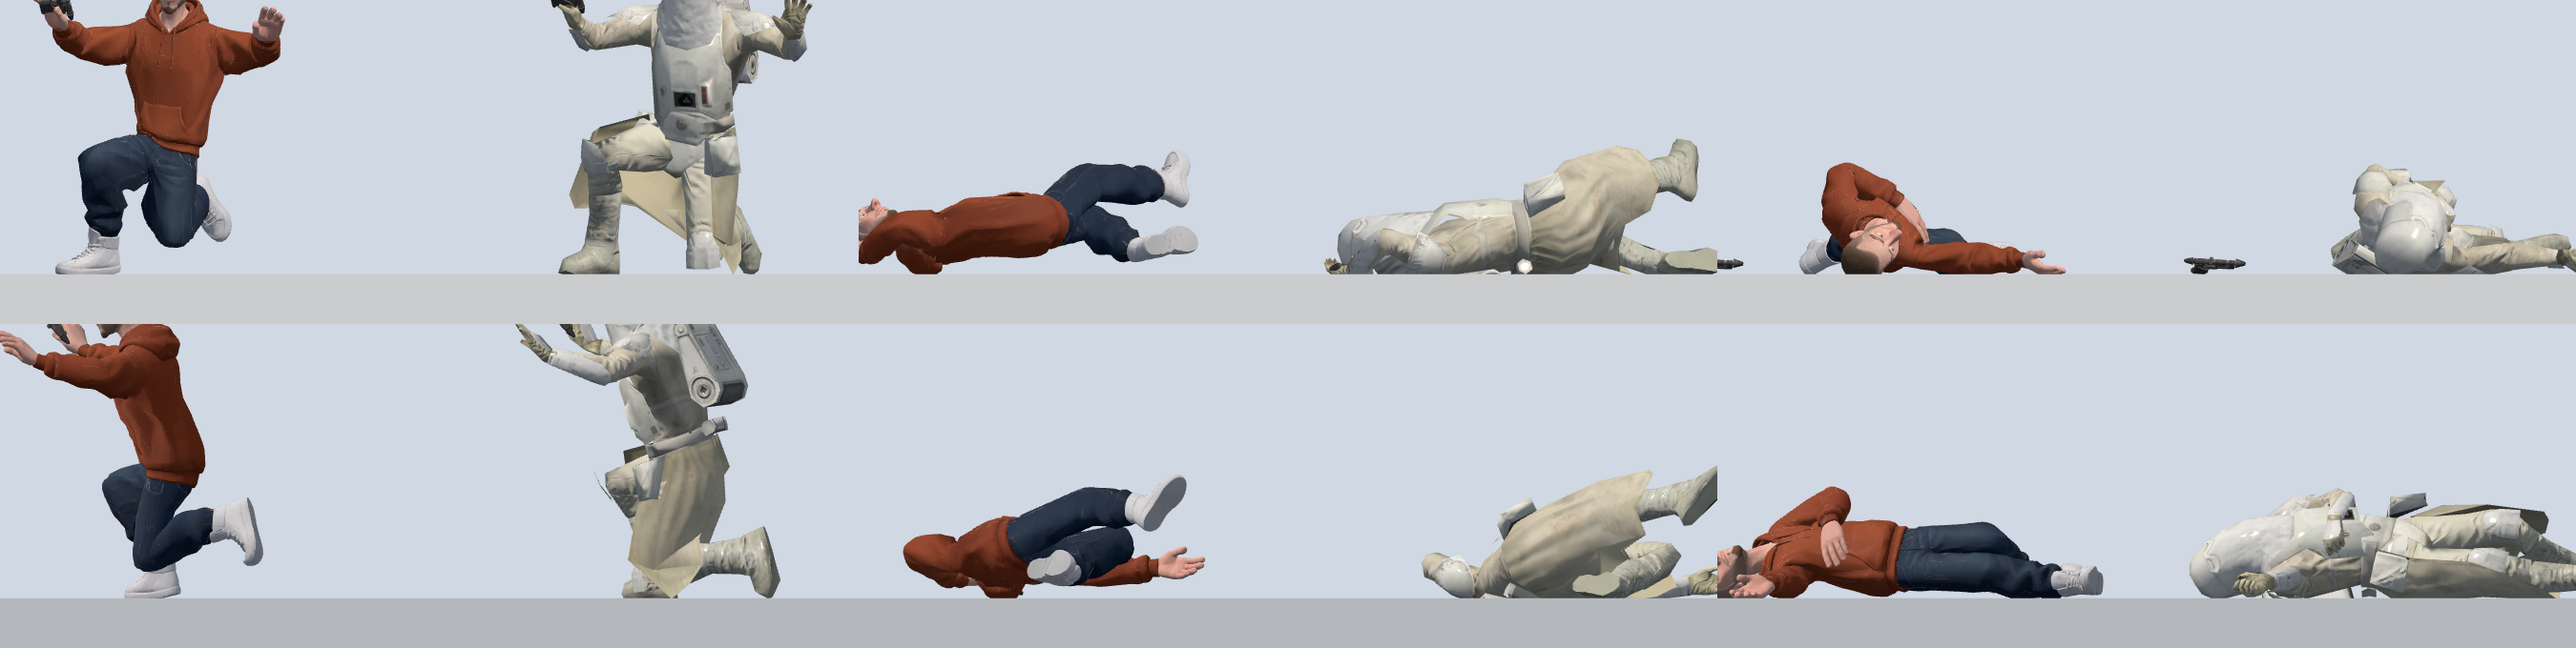
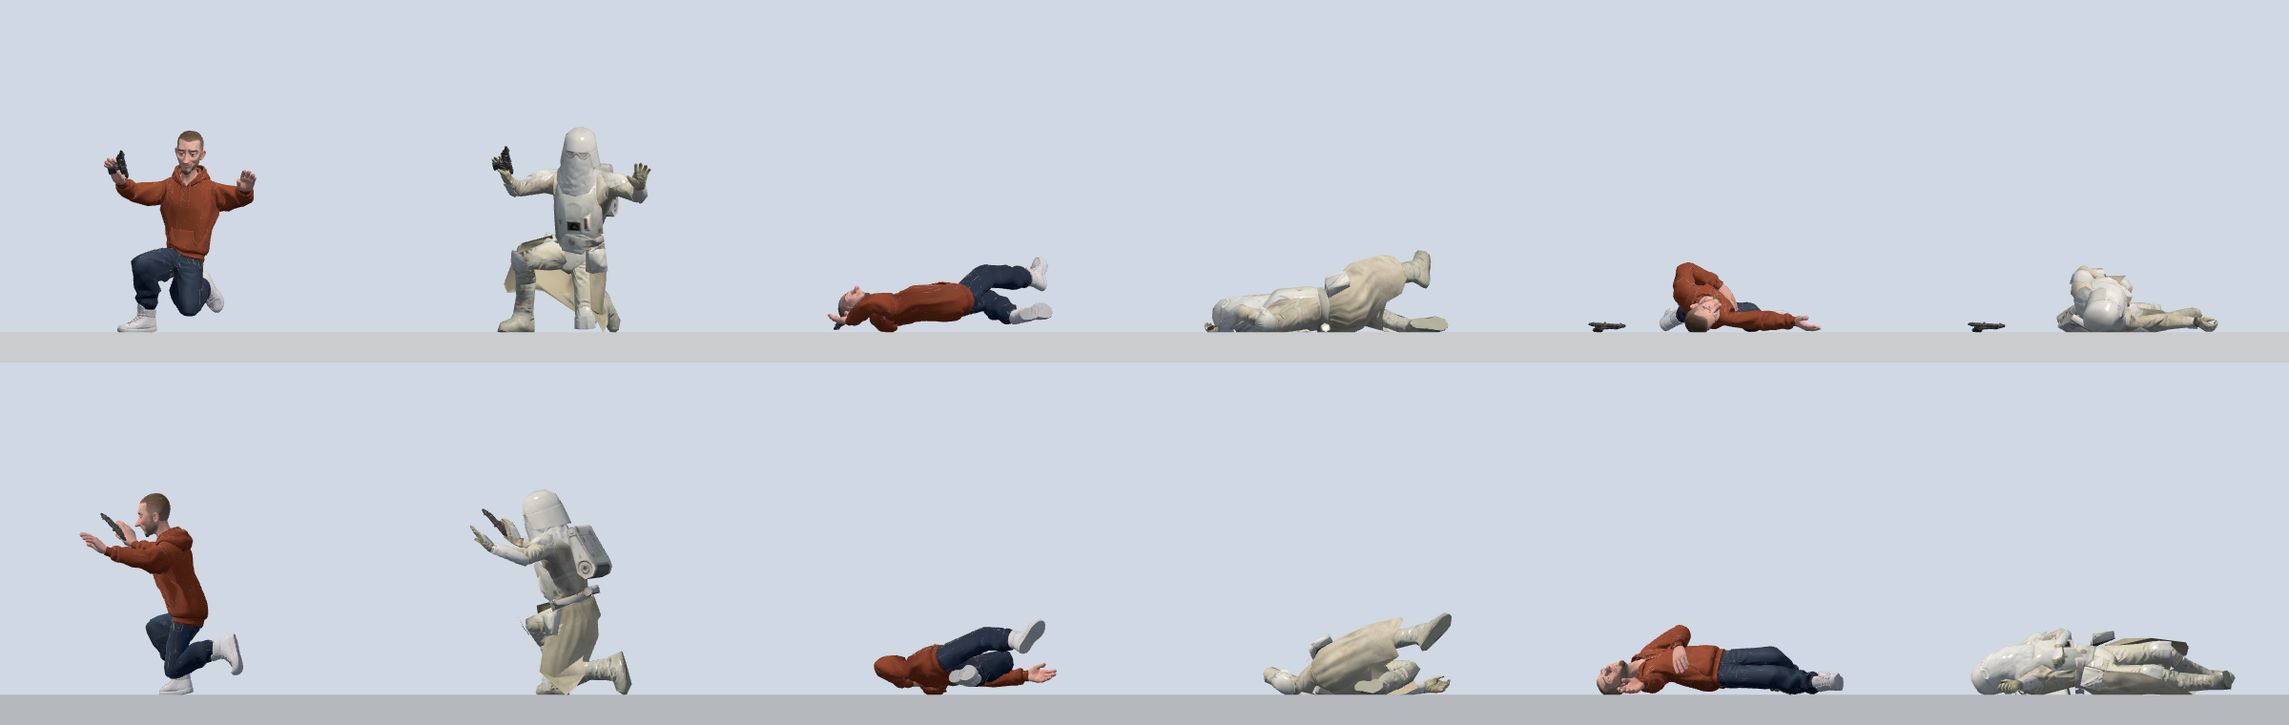
The guests' evidence says what the mesh shows: the ground table before and after, the kneeling deaths, the look ruled, the fallen pictures taken again.
The file claimed every part was kept out of the ground and that Rick lay on it; by the mesh neither was so. It now lists the head in the ground and the body over it with their numbers, the kneeling deaths' knee and toes in the air, the cloth, the adults' sprint with the pistol sprint's worse numbers, and that the ink pictures show no ink line. The look is ruled: the lit material. The four fallen pictures are taken again, taller and wider, with nothing cut off. The packs are said to be made by the command and not in the repository.

diff --git a/docs/superpowers/evidence/guests/README.md b/docs/superpowers/evidence/guests/README.md
@@ -1,12 +1,12 @@
 # The site's own cast on the 2017 game's skeleton: what was made, measured and seen
 
-2026-10-13. For the plan `docs/superpowers/plans/2026-10-13-guest-rig-and-clips.md` (design: `specs/2026-10-13-gpu-site-and-guest-heroes-design.md`, section 4, lanes B1 and B2).
+2026-10-13. For the plan `docs/superpowers/plans/2026-10-13-guest-rig-and-clips.md` (design: `specs/2026-10-13-gpu-site-and-guest-heroes-design.md`, section 4, lanes B1 and B2). Revised the same day after the branch's review (the ground by the mesh, the look, the packs out of git).
 
-Rick, Morty, Walt and Jesse each exist as a body on Star Wars Battlefront II (2017)'s 254-node skeleton at their own proportions (`public/models/guests/<body>.glb`), with a clip pack made from the game's own clips refit to that body (`public/models/guests/clips-<who>.glb`). No unit, rule or screen uses them yet.
+Rick, Morty, Walt and Jesse each exist as a body on Star Wars Battlefront II (2017)'s 254-node skeleton at their own proportions, in the repository at `public/models/guests/<body>.glb`. Each has a clip pack made from the game's own clips refit to that body. **The packs are not in the repository**: they are the game's own hero packs, and the repository keeps those in the asset bucket and out of git. A pack is made by the command below into `lab/assets/packs/guests/`, which git ignores; nothing has published one to the bucket. No unit, rule or screen uses a guest yet.
 
 ```
-node scripts/guest-rig.mjs <who>      # the body, from scripts/guests.json's row
-node scripts/guest-clips.mjs <who>    # its pack: the humanoid's, the pistol's stance, the host hero's
+node scripts/guest-rig.mjs <who>      # the body, from scripts/guests.json's row, into public/models/guests/
+node scripts/guest-clips.mjs <who>    # its pack (the humanoid's, the pistol's stance, the host hero's), into lab/assets/packs/guests/
 node scripts/guest-shots.mjs <who> out.png --host <hero>   # pictures, through the dev server in --mode bucketcheck
 ```
 
@@ -14,7 +14,7 @@ node scripts/guest-shots.mjs <who> out.png --host <hero>   # pictures, through t
 
 - **The skeleton** (`scripts/lib/guest-skeleton.mjs`): all 254 of the game's nodes with their rest rotations to the bit and no scale, plus `head_end` and `headfront` under `Head`. Each of the game's body bones stands where the guest's own joint stands once its upper arms, forearms, thighs and shins are turned onto the game's rest. The trunk, the collar, the head and the feet are not turned. Meshy's back is read from the hierarchy: `Spine02`, `Spine01`, `Spine` are the game's `Spine`, `Spine1`, `Spine2`.
 - **The mesh** (`scripts/lib/guest-skin.mjs`): posed at that rest through its own Meshy skin and kept as the new bind, its weights moved one for one. `head_end`'s and `headfront`'s weight goes to `Head`. No finger is weighted: a hand is a mitten.
-- **The clips** (`scripts/lib/guest-clips.mjs`): every rotation channel is the game's to the bit. Position channels are refit: the hips by the legs' ratio and then lifted, eased, so the feet meet the ground; the weapon socket kept in the right hand's frame at the guest's own grip; the hands' targets on the hands; the attach points on the weapon; the chest's two sockets with the chest.
+- **The clips** (`scripts/lib/guest-clips.mjs`): every rotation channel is the game's to the bit. Position channels are refit: the hips by the legs' ratio and then lifted or lowered, eased, to meet the ground (below); the weapon socket kept in the right hand's frame at the guest's grip; the hands' targets on the hands; the attach points on the weapon; the chest's two sockets with the chest.
 
 ## Each guest against the game's man
 
@@ -28,7 +28,7 @@ Metres, from the files. "Legs" is the hip joints' height at rest over the game's
 | Walt | 1.790 | 0.951 | 0.355 | 0.374 | 0.132 | 0.263 | 0.247 | 0.251 | 0.9206 | bossk |
 | Jesse | 1.730 | 0.942 | 0.354 | 0.342 | 0.153 | 0.232 | 0.236 | 0.222 | 0.9097 | lando |
 
-The plan expects Rick 1.67 m and Morty 1.47 m tall. The files do not give those: Rick's mesh stands 1.800 m (his hair's tips) with its crown joint at 1.702, Morty's 1.500 with its crown joint at 1.487. His hips, thigh and shin are as the plan says, each within 5 mm.
+The plan expects Rick 1.67 m and Morty 1.47 m tall. The files do not give those: Rick's mesh stands 1.800 m (his hair's tips) with its crown joint at 1.702, Morty's 1.500 with its crown joint at 1.487. Their hips, thighs and shins are as the plan says, each within 5 mm.
 
 ## The plan's acceptance numbers
 
@@ -40,19 +40,59 @@ The plan expects Rick 1.67 m and Morty 1.47 m tall. The files do not give those:
 | 1 | hips at the guest's height, feet at zero | fitted hips 0.929 (Rick, 4.7 mm under his filed 0.933: the game's rest stands a little wider), 0.749 (Morty); soles' mean 0, each within 5 mm |
 | 2 | wrist, elbow, knee and ankle rings | carried with their joints: Rick at most 0.94 cm, Morty 0.31 cm, Walt 0.08 cm, Jesse 0.13 cm |
 | 2 | weights | every vertex sums to one, on at most 22 bones; every vertex in the zone the Wardrobe paints it by on Meshy's rig (at most 2 differ) |
-| 3 | the same bytes twice | yes (`scripts/guest-rig.test.mjs`) |
+| 3 | the same bytes twice | yes; and each of the four committed bodies is, byte for byte, what the command makes today (`scripts/guest-rig.test.mjs`) |
 | 3 | loads through `loadWalrusBody` | yes, the five sockets found; its vertices use 22 joints at most, which is what `pruneSkin` leaves of the skin's 256 |
-| 4 | rotation tracks to the bit | every rotation track of all 30 humanoid clips not overridden, compared as the file's normalized shorts (`scripts/guest-clips.test.mjs`) |
-| 4 | Morty's lower foot within 2 cm where the game's is | `walk` 1.0 cm, `run` 1.5 cm, `sprint` 1.5 cm at worst |
+| 4 | rotation tracks to the bit | the command reads back each pack it writes and fails unless every turn equals its source, stored shorts and key times: 3,430 turns in Rick's, Morty's and Jesse's packs, 3,503 in Walt's. The tests do the same for all four guests on clips of the humanoid pack, which is in git, and prove the check throws on one short off by one |
+| 4 | the lower foot within 2 cm where the game's is | by the soles' probes, at worst: Morty `walk` 1.0, `run` 1.5, `sprint` 1.5 cm; Rick 1.4, 1.5, 1.5; Walt 1.3, 1.5, 1.5; Jesse 1.1, 1.5, 1.5 |
 | 4 | `Wep_Root` to the grip through the aim | 0.0 cm (Morty), 0.1 cm (Rick, Walt, Jesse) |
 | 4 | the same clip names in as out | 48 clips: the humanoid's 31, `stance.p.*` 17, the host's `die` over the humanoid's; Walt 49 (Bossk's `melee.a`) |
 
 The plan names `walk.fwd` and `aim`. The packs call them `walk` and `aim.pistol` (and `stance.p.aim`); those are what was measured.
 
-Two things the plan's wording could not hold, and what was done instead:
+## Where it departs from the plan
 
-- **The ring test.** "Centred within 1 cm on its fitted joint" is not true of Meshy's own rig: its knee joints sit 2 to 8 cm before the ring's middle and its ankles 1.5 to 7 cm off (Rick's knee ring is his coat's skirt). The joints are kept where Meshy's weights expect them, and the test is that each ring moved with its joint.
-- **The hips by the legs' ratio.** The ratio alone leaves Morty's planted foot 2.8 cm off the ground in the run and 3.8 cm in the sprint, Rick's 4.9 and 9.2 cm, and lays Morty's head 14 cm in the floor when he falls on his back. The hips are lifted or lowered after it, by as little as holds a planted foot within 1.5 cm and every part of the body within 1 cm of sinking, eased over a few frames.
+1. **Bones are put where the guest's own joints stand**, not scaled along the game's own directions. Only the long bones of the limbs are turned onto the game's. Scaled along the game's directions, Rick's head would sit 2.6 cm forward of his neck and his soles would tip 24° off the ground.
+2. **The ring test** is "each ring moved with its joint within 1 cm", not "centred on it within 1 cm". Meshy's own knee joints sit 2 to 8 cm before the ring's middle and its ankles 1.5 to 7 cm off (Rick's knee ring is his coat's skirt). The joints are kept where Meshy's weights expect them.
+3. **The hips are not sized by the legs' ratio alone.** By the ratio alone the planted foot is off the ground by 2.0 cm (Morty), 3.5 (Rick, Jesse) and 3.6 (Walt) in the run, and 2.1, 5.4, 5.5 and 7.1 in the sprint; in a roll Walt's hands are 20 cm under the ground; fallen on his back Morty's head is 17 cm in it. The body is lifted or lowered after the ratio, as the next section says.
+4. **The palms are rolled about the forearm** to face as the game's man's. Meshy stood Rick and Morty with theirs forward, and the pistol lay on an open, upturned palm.
+5. **The plan's heights** for Rick and Morty are not what the files measure (above).
+
+## The ground, by the mesh
+
+A guest's limbs are not the game's man's in proportion, and every turn is his. So only the hips' place can be moved to meet the ground, and not every part can be met at once. What the refit does, each frame, in this order:
+
+- Where the game's man's foot is planted, the guest's lower sole is held within 1.5 cm of the ground.
+- No vertex of the trunk, the pelvis, an arm or a hand is left more than 1 cm under the ground. Where a hand is under the ground while a foot is planted, the two are met halfway.
+- The head is brought out of the ground too, except where the body is down (its trunk or pelvis within 10 cm of the ground). There a head bigger than the game's man's cannot lie flat beside the body: it is let into the ground as far as that leaves the body over it. **The worse of the two is made smallest; neither is right.**
+- The legs are not kept up: Rick's coat and Walt's trouser cuffs hang from them.
+
+Measured on the mesh, skinned at every frame, lowest vertex, centimetres over the ground (under it is negative). "Before" is the branch as first reviewed (the lift solved for six sole points and a ball each in pelvis, trunk and head); "after" is this revision (the lift solved on the mesh itself).
+
+| | Rick before | Rick after | Morty before | Morty after | Walt before | Walt after | Jesse before | Jesse after |
+| --- | --- | --- | --- | --- | --- | --- | --- | --- |
+| rolls (`dodge.*`): deepest hand or arm | −10.0 | −1.0 | −4.6 | −1.0 | −16.6 | −1.2 | −10.1 | −1.0 |
+| rolls: deepest head | −10.9 | −8.8 | −3.2 | −7.1 | −4.0 | none under | −3.8 | −1.4 |
+| rolls: the planted foot, worst (soles' probes) | 1.5 | 1.5 | 1.5 | 1.5 | 1.5 | 1.7 | 1.5 | 1.5 |
+| `die.back`: deepest hand or arm | −6.4 | −1.0 | −2.1 | −1.0 | −8.1 | −1.0 | −6.9 | −1.0 |
+| `die.back`: deepest head, any frame | −13.2 | −11.1 | −4.1 | −8.6 | −2.9 | −0.6 | −4.8 | −2.5 |
+| `die.back`, end: head | −2.0 | −1.8 | −1.5 | −4.7 | −0.8 | −0.2 | −0.5 | −0.1 |
+| `die.back`, end: lower of trunk and pelvis | +3.6 | +3.9 | +8.4 | +5.2 | −1.5 | −1.0 | −1.4 | −1.0 |
+| `die.blown`, end: head | −12.6 | −10.3 | −3.3 | −7.9 | −2.1 | +0.6 | −3.2 | −1.7 |
+| `die.blown`, end: lower of trunk and pelvis | +8.5 | +10.8 | +13.0 | +8.4 | −0.2 | +2.6 | +0.7 | +2.2 |
+| `die.blown`: deepest hand or arm | −2.2 | −1.0 | −2.0 | −1.0 | −8.8 | −1.0 | −4.6 | −1.0 |
+| `die` (the pack's own: the host's kneel): deepest hand | none under | none under | none under | none under | −8.7 | −4.9 | none under | none under |
+| `die` (the host's): the planted foot, worst | 1.0 | 1.0 | 1.0 | 1.0 | 1.5 | 5.4 | 1.1 | 1.1 |
+| `walk`, `run`, `sprint`: the planted foot, worst | 1.4, 1.5, 1.5 | the same | 1.0, 1.5, 1.5 | the same | 1.3, 1.5, 1.5 | the same | 1.1, 1.5, 1.5 | the same |
+
+What that buys and costs: the hands and arms come out of the ground in every roll and death (Walt's from 16.6 cm to 1.2). Rick's hair is still 8.8 to 11.1 cm in the ground where he rolls or falls on it, a little less than before, and his body is 10.8 cm over the ground blown off his feet where it was 8.5. Morty's head is now 4.7 to 8.6 cm in the ground where before it was 1.5 to 4.1, and his body is 5.2 to 8.4 cm over the ground where before it hung 8.4 to 13.0: the head pays for the body. Walt on all fours (Bossk's death) has a foot 5.4 cm up for a hand 4.9 cm under. The feet in the three gaits are untouched.
+
+`scripts/lib/guest-clips.test.mjs` holds these: as requirements where the number is the plan's or the least that is right (the planted foot within 2 cm; trunk, pelvis, arms and hands within 3 cm; the head's trade even), and as pins of today's output where it is a fault held still (how deep a head goes, the adults' sprint), each labelled as which.
+
+## The look
+
+Ruled 2026-10-13: a guest wears its own paint under the game's light, the lit standard material (`rick-look-lit.png`, `morty-look-lit.png`), with no rim and no outline.
+
+The two pictures named `-look-ink.png` **show no ink line**: they are the toon pictures again, but for 180 and 65 pixels of the guest's half. The likely cause, read in the shader and not run: `src/lib/three/ink.js` pushes a skinned hull along `transformedNormal`, which three 0.186 negates under `FLIP_SIDED`, and a `BackSide` material defines that, so the hull goes inward and shows only where the mesh is thinner than twice its width. This branch does not change `ink.js`. If that is the cause it also touches the cruiser's crew, and is its own change. The outline was not re-shot.
 
 ## The pictures
 
@@ -62,22 +102,29 @@ Each: the guest on the left, the game's snowtrooper on the right, the same clip 
 | --- | --- |
 | `rick-rest-walk.png`, `morty-rest-walk.png`, `walt-rest-walk.png`, `jesse-rest-walk.png` | at rest, then three moments of `walk`, from the front and the side. Soles on the slab's edge at the same phase as the trooper's; the rifle walk's hands together before the chest; head on the neck; no sleeve collapsed |
 | `rick-aim.png`, `morty-aim.png`, `walt-aim.png`, `jesse-aim.png` | the pistol's aim, the pistol's walk, a moment of `run`. The pistol is at the right hand, pointing where the trooper's points |
-| `rick-fallen.png`, `morty-fallen.png`, `walt-fallen.png`, `jesse-fallen.png` | the end of `die` (the host hero's own: Han's and Lando's kneel with the hands up), `die.back` and `die.blown`. Rick lies on the ground; a dropped gun lies on the ground |
-| `rick-look-toon.png`, `-lit.png`, `-ink.png`; `morty-look-…` | the three looks for the owner to choose from, under one light: the galaxy's worlds' toon paint and rim; the same texture as a lit standard material; the first with the cruiser's ink outline |
+| `rick-fallen.png`, `morty-fallen.png`, `walt-fallen.png`, `jesse-fallen.png` | the end of the pack's own `die` (the host hero's: Han's and Lando's kneel with the hands up, Bossk's on all fours), `die.back` and `die.blown`. Re-shot for this revision, taller and wider, so no head or trooper is cut off. Rick's and Morty's were opened: a dropped gun lies on the ground; Rick on his back lies on it; blown off his feet his hair is in it and his body a hand over it; Morty lies with his head part in the ground and his body a little over it; his kneeling knee is clear of the ground |
+| `rick-look-toon.png`, `-lit.png`, `-ink.png`; `morty-look-…` | the looks: the galaxy's worlds' toon paint and rim; the same texture as a lit standard material (the one ruled); and a third that was meant to carry the cruiser's ink outline and does not (above) |
+
+The pictures of the walk, the aim and the look were taken before this revision. It changes neither the bodies nor the feet in the gaits, so they were not taken again.
 
 ## What still looks wrong
 
-- **Morty fallen on his back** (`morty-fallen.png`, middle): he lies propped on the back of his head, his back and legs up to 13 cm over the ground. His head is 38 cm through and the game's man's 27; the turns of his neck are the game's and may not be changed, so either the head lies in the floor or the body lies over it. This keeps it out of the floor. Walt and Jesse show the same, less (about 10 cm at the feet).
-- **The hand is a mitten.** The pistol's grip lies against an open palm with the fingers along the barrel. Closing the hand needs fingers weighted, which no guest has.
-- **The roll of the forearm.** Meshy stood Rick and Morty with their palms forward; the game's man rests his down and in. Their hands are rolled about the forearm to match, half of it at the elbow. It costs 8 to 15 % of the sleeve's girth at their elbows and wrists (Rick's right elbow ring is 0.85 of what it was). Walt and Jesse needed no roll.
-- **The sprint.** Holding the planted foot within 1.5 cm makes the hips change pace more sharply than the game's man's do at that size: Morty 1.9 cm against 1.8 (nothing), Rick 5.1 against 2.2, Jesse 6.0 against 2.3, Walt 7.5 against 2.3 between frames. The same in Rick's crouched run (2.9 against 0.4). Not seen in a still; it would show in motion as a small jolt at each push. Widening the 1.5 cm takes it away at the cost of the plan's 2 cm.
-- **The pictures crop the aim from the side** on Rick and Walt: the arm reaches the cell's edge. The front view and the close numbers stand for it.
+- **Fallen and rolling, a head in the ground or a body over it** (`rick-fallen.png` and `morty-fallen.png`, middle and right). The numbers are the table's: Rick's hair 10.3 cm in the ground and his body 10.8 cm over it at the end of `die.blown`, 11.1 cm in at the deepest moment of `die.back`, 8.8 cm in a roll to his right; Morty's head 7.9 cm in and his body 8.4 cm over at the end of `die.blown`, 4.7 and 5.2 at the end of `die.back`, 7.1 cm in a roll. His head is 38 cm through and the game's man's 27, and Rick's hair reaches 8 cm past his skull each way; the turns of the neck are the game's and may not be changed.
+- **The kneeling deaths** (the left column of the four fallen pictures). With the front foot planted, the kneeling leg's lowest point at thigh and shin is 1.0 cm under the ground on Rick and 5.0, 5.9 and 10.6 cm over it on Morty, Walt and Jesse; the rear foot's toes are 9.3, 4.6, 8.9 and 12.9 cm over it. It is the same turns on a shorter thigh and shin over a higher ankle (Jesse's ankle joint stands 1.60 times the game's, his thigh and shin 0.83). No position channel can close it.
+- **Walt on all fours** (Bossk's death): a hand 4.9 cm under the ground and a foot 5.4 cm over it, met halfway.
+- **Cloth on the legs goes into the ground**: Rick's coat 5.4 cm at the end of `die.blown` and 6.1 in a roll, Walt's trouser cuffs 5.8 in a roll. And Rick's coat skirt opens like a tent between his legs in a stride (Meshy's weights).
+- **The hand is a mitten.** The pistol's grip lies against an open palm with the fingers along the barrel; on Walt it rides on top of the spread glove. Closing the hand needs fingers weighted, which no guest has. No grip has been placed by eye on its own hand: three are the game's man's own, Morty's that at his hand's size, and only Rick's was looked at closely.
+- **The roll of the forearm.** It costs 8 to 15 % of the sleeve's girth at Rick's and Morty's elbows and wrists (Rick's right elbow ring is 0.852 of what it was), and folds 19 to 149 of about 41,000 triangles over at the forearms and hands. Walt and Jesse needed no roll.
+- **The sprint jolts the adults' hips.** Holding the planted foot within 1.5 cm makes the hips change pace more sharply between frames than the game's man's do at that size: Rick 5.1 cm against 2.2, Jesse 6.0 against 2.3, Walt 7.5 against 2.3 (Morty 1.9 against 1.8, which is nothing). The pistol's sprint is worse: Walt 8.4 against 1.8, Jesse 7.3 against 1.7. In the run, 2.8 to 3.5 against 2.3 to 2.4; in Rick's crouched run 2.9 against 0.4. Not seen in a still; it would show in motion as a small jolt at each push. Widening the 1.5 cm takes it away at the cost of the plan's 2 cm.
+- **A trailing foot**: Jesse's is about 3 cm up at the first moment of the walk where the trooper's toe is still down; in the run every guest's lower foot is 1.4 to 2.1 cm over the ground by the mesh where the trooper's toe touches.
+- **`Wep_Muzzle` is sized by the hand**, as the plan says: 58 cm out on the game's man, 45.7 on Morty, 79.2 on Walt, with the same gun. `figures/held.js` does not read it today.
+- **The pictures crop the aim from the side** on Rick and Walt: the arm reaches the cell's edge. The front view and the numbers stand for it.
 
 ## Not done
 
 - **Fingers**: none are weighted.
+- **Publishing the packs** to the asset bucket: the owner's to approve, in the lane that makes guests playable. Until then a pack exists only where the command was run.
 - **The other bodies** the Wardrobe offers (Tiny Rick, Evil Morty, Cop Morty, Jesse in hazmat, the Citadel's Ricks): the same two commands, a row each in `scripts/guests.json`; not run. A body whose limbs differ from its person's first by more than 2 % needs a pack of its own (`--body`).
-- **The looks for Walt and Jesse**: not photographed three ways.
 - **The stance.** `withStance` (`src/lib/three/walrusStance.js`) fetches the game's own stance pack and lays it over a figure; on a guest that would be the man's positions again. A guest's whole pack already carries `stance.p.*`: whoever makes a guest a unit takes the stance from there.
 - **The Wardrobe's gear after `pruneSkin`.** `wearGear` reads `head_end` and `headfront` from the skin's joints; they carry no weight, so `pruneSkin` drops them. Dress before pruning, or keep those two.
 - **`figures.js`'s `BODIES` rows**, a unit, its rules, its screens: other lanes.
